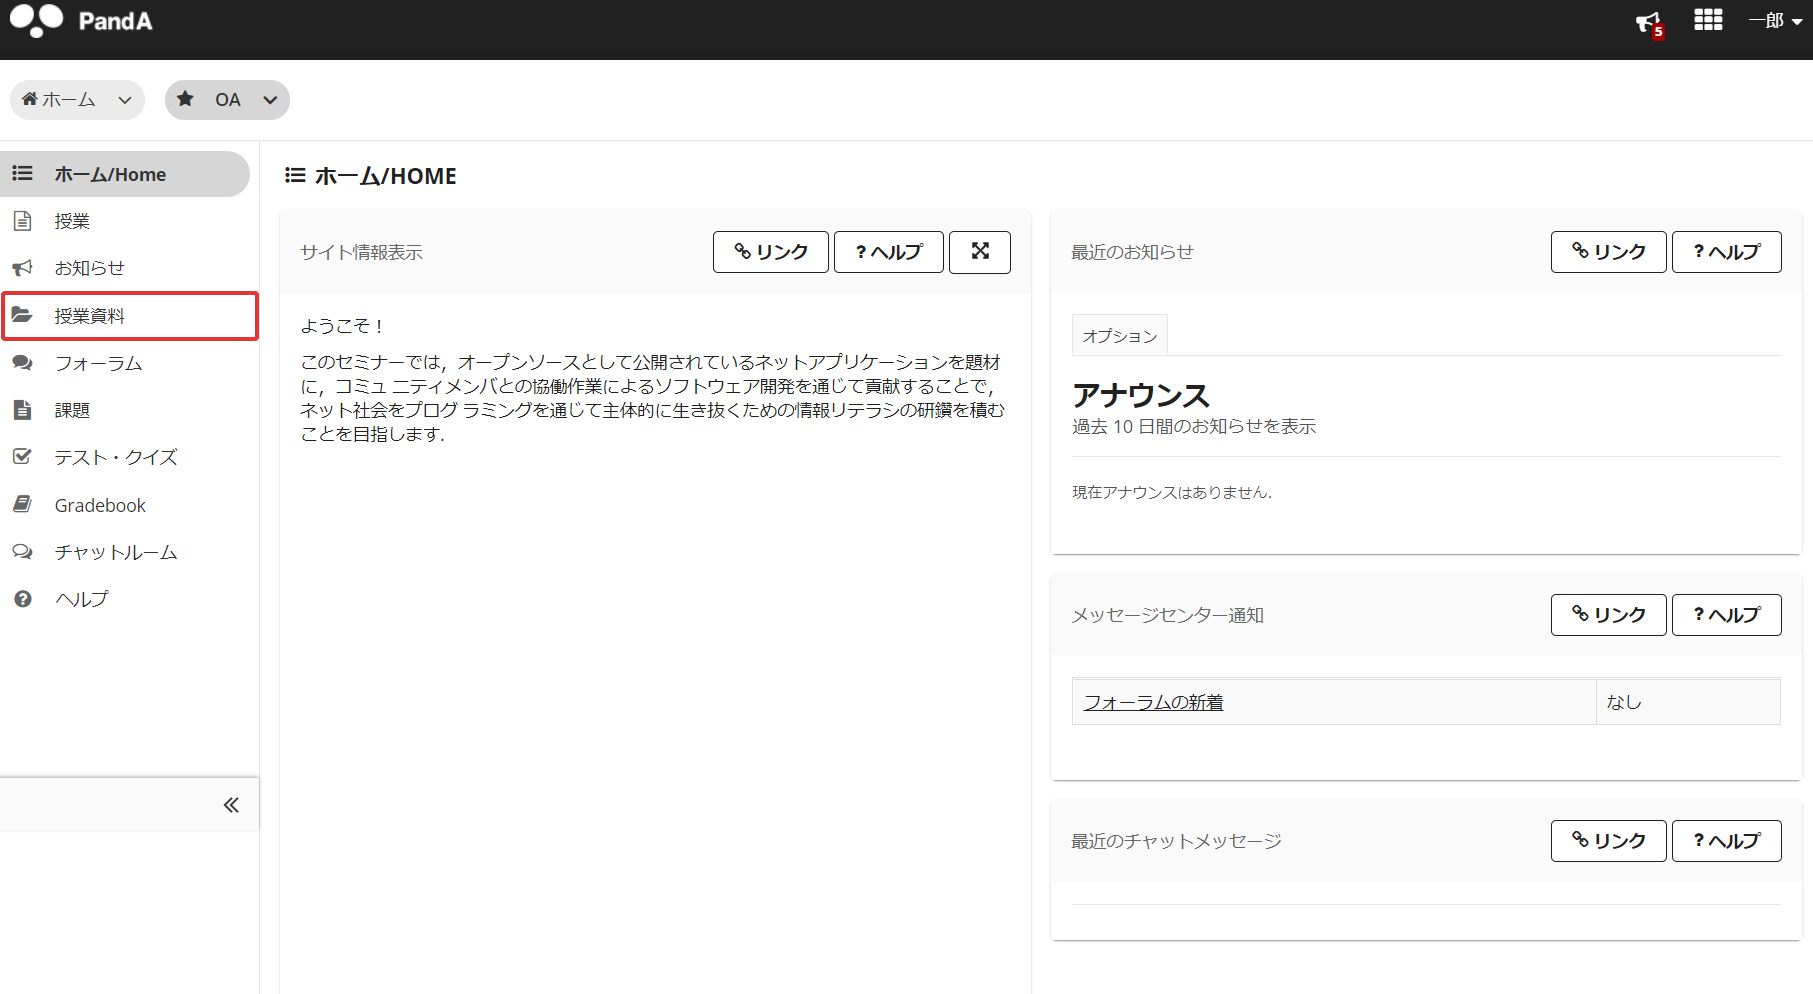
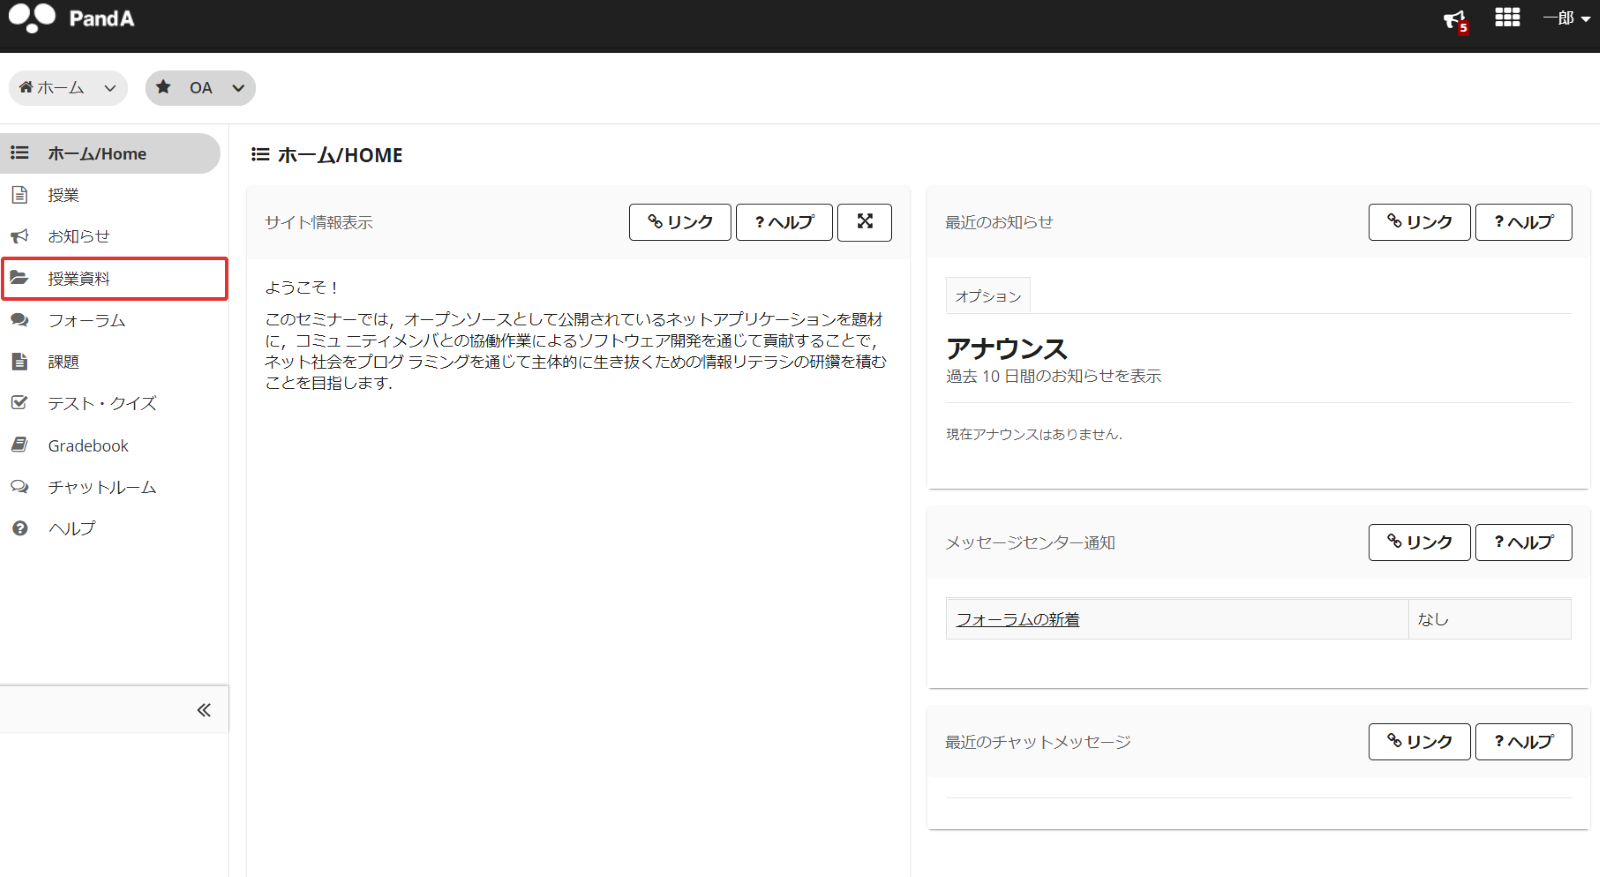
スクリーンショットを追加する

diff --git a/templates/instructions_of_resources.htm b/templates/instructions_of_resources.htm
@@ -55,7 +55,7 @@
                         <div>
                             授業資料ページの各パーツについて説明します。
                         </div>
-                        <div>（スクリーンショットが入ります）</div>
+                        <img src="../static/images/instructions_of_resources_1.png">
                         <h5>1.一覧表示テーブルの先頭行</h5>
                         <p>
                             テーブルの先頭行です。タイトル、アクセス、作成者などの項目があります。<br>
@@ -66,19 +66,19 @@
                         <p>
                             授業資料をフォルダによって分類してまとめている場合、フォルダが表示されます。
                         </p>
-                        <p>フォルダをクリックすると、内容を展開できます。</p>
-                        <p>（スクリーンショットが入ります）</p>
+                        <p>フォルダのマークをクリックすると、内容を展開でき、展開された状態でクリックすると、元に戻ります。</p>
+                        <img src="../static/images/instructions_of_resources_2.png">
                         <h5>3.資料</h5>
                         <p>
                             資料の名前をクリックするまたは「名前を付けて保存」することで、資料をダウンロードできます。<br>
                             アップロードされている資料にはWord文書、PowerPointによるスライド、PDFファイル、動画など様々なものが存在します。<br>
                             中にはファイルサイズの大きいものもありますので、ダウンロードする際は表に記されているファイルサイズに注意してください。
                         </p>
-                        <h5>4.追加・操作ボタン</h5>
+                        <h5>4.アクションボタン</h5>
                         <p>
                             学生が授業資料フォルダの中身を追加したり、追加した資料を更新できる場合があります(許可されている場合のみ)。<br>
-                            新しい資料をアップロードするには、アップロード先のフォルダを選び、横の[追加]から「ファイルをアップロード」を選択してください。<br>
-                            一度アップロードした資料を更新する場合は、[操作]から「新しいバージョンをアップロード」を選択してください。
+                            新しい資料をアップロードするには、アップロード先のフォルダ横の[アクション]から「ファイルをアップロード」を選択してください。<br>
+                            一度アップロードした資料を更新する場合は、[アクション]から「新しいバージョンをアップロード」を選択してください。
                         </p>
                         <p>
                             いずれの操作においても、自分の行った変更は受講者全員に共有されることに注意し、授業で決められた範囲て使用してください。
